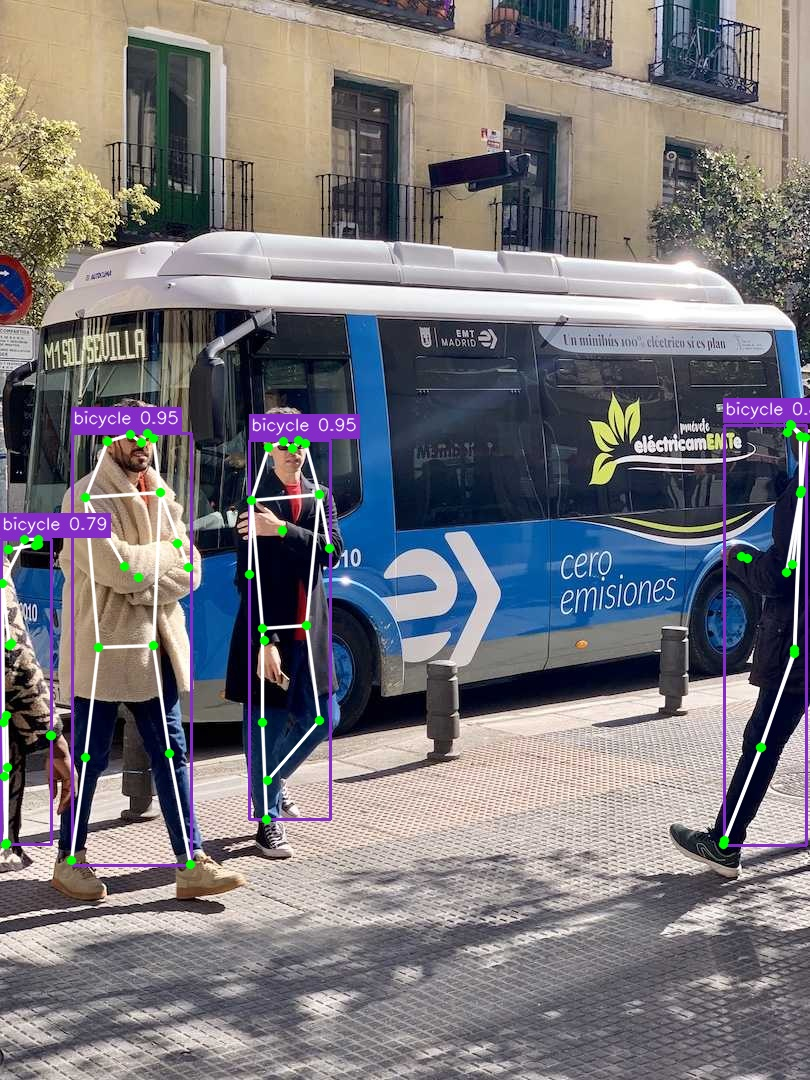
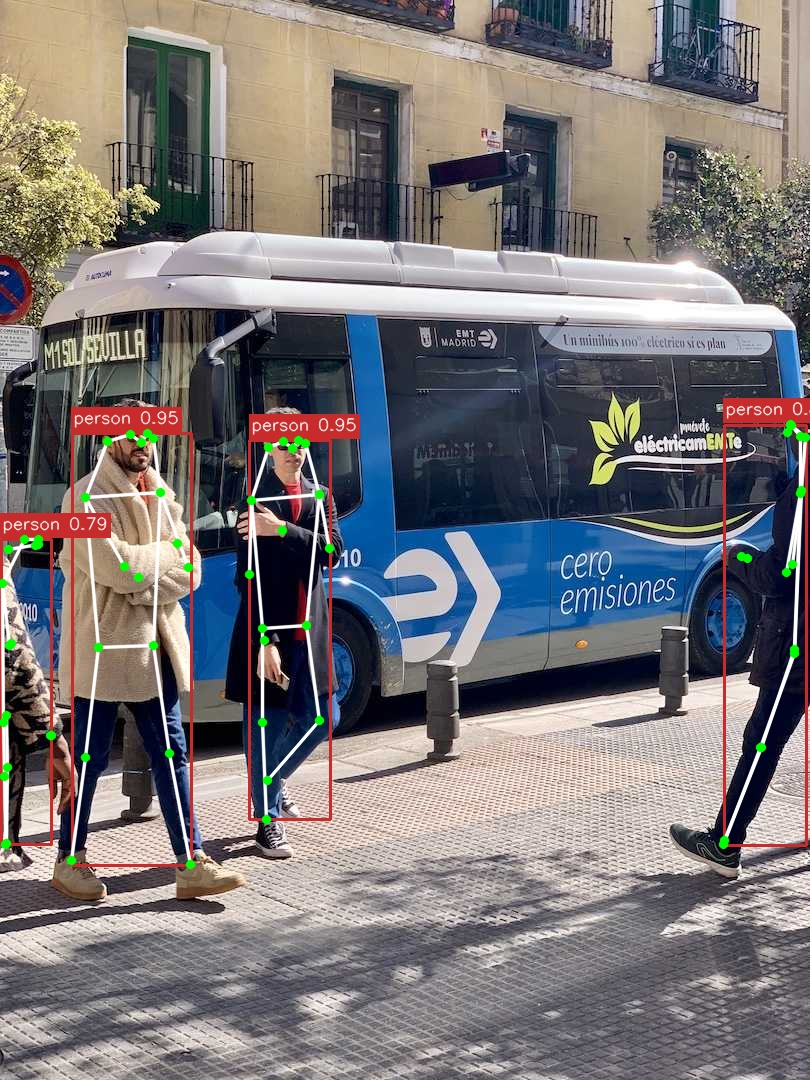
Fix pose class label: add label_offset config to map model label 1->0 for person

diff --git a/src/main.cpp b/src/main.cpp
@@ -38,6 +38,7 @@ int main(int argc, const char *argv[]) {
             config.task_type = TaskType::SEGMENTATION;
         } else if (std::strcmp(argv[i], "--pose") == 0) {
             config.task_type = TaskType::POSE;
+            config.label_offset = -1;
         } else if (std::strcmp(argv[i], "--threshold") == 0 && i + 1 < argc) {
             config.threshold = std::stof(argv[++i]);
         } else if (std::strcmp(argv[i], "--output") == 0 && i + 1 < argc) {

diff --git a/src/edgecrafter_inference.cpp b/src/edgecrafter_inference.cpp
@@ -153,7 +153,7 @@ std::vector<Result> EdgeCrafterInference::infer(std::span<const float> input_dat
         }
 
         Result result;
-        result.class_id = static_cast<int>(labels[i]);
+        result.class_id = static_cast<int>(labels[i]) + config_.label_offset;
         result.score = score;
 
         if (has_boxes) {

diff --git a/src/edgecrafter_inference.hpp b/src/edgecrafter_inference.hpp
@@ -25,6 +25,7 @@ struct Config {
     float mask_threshold{0.0F};
     int num_keypoints{17};
     float keypoint_threshold{0.3F};
+    int label_offset{0};
 };
 
 struct Result {
